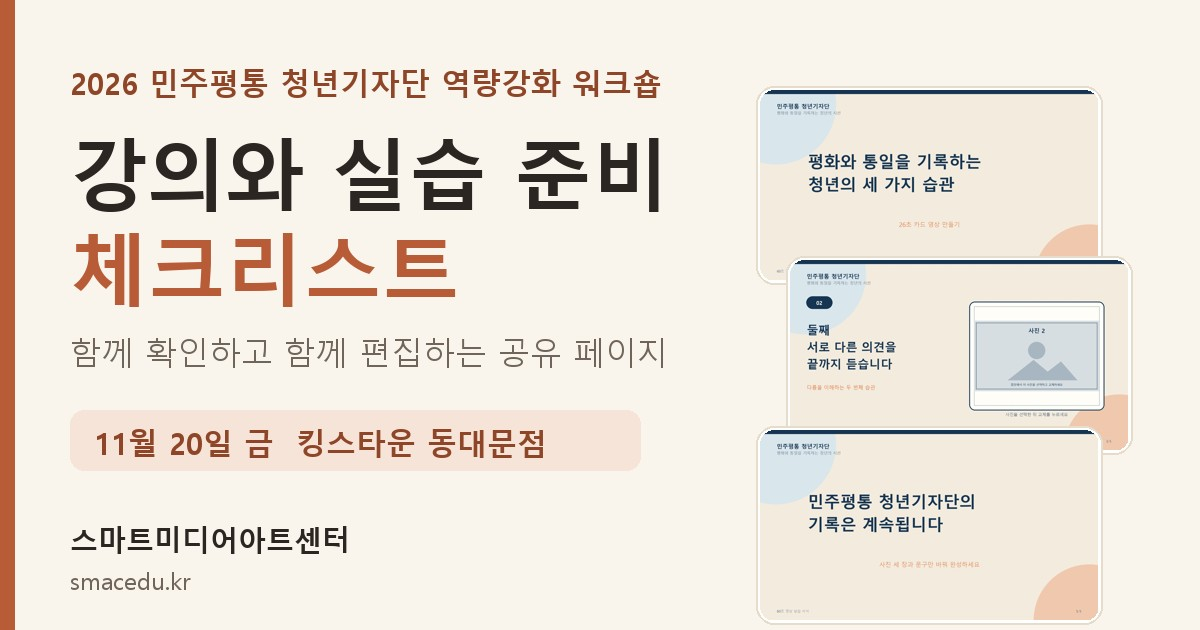
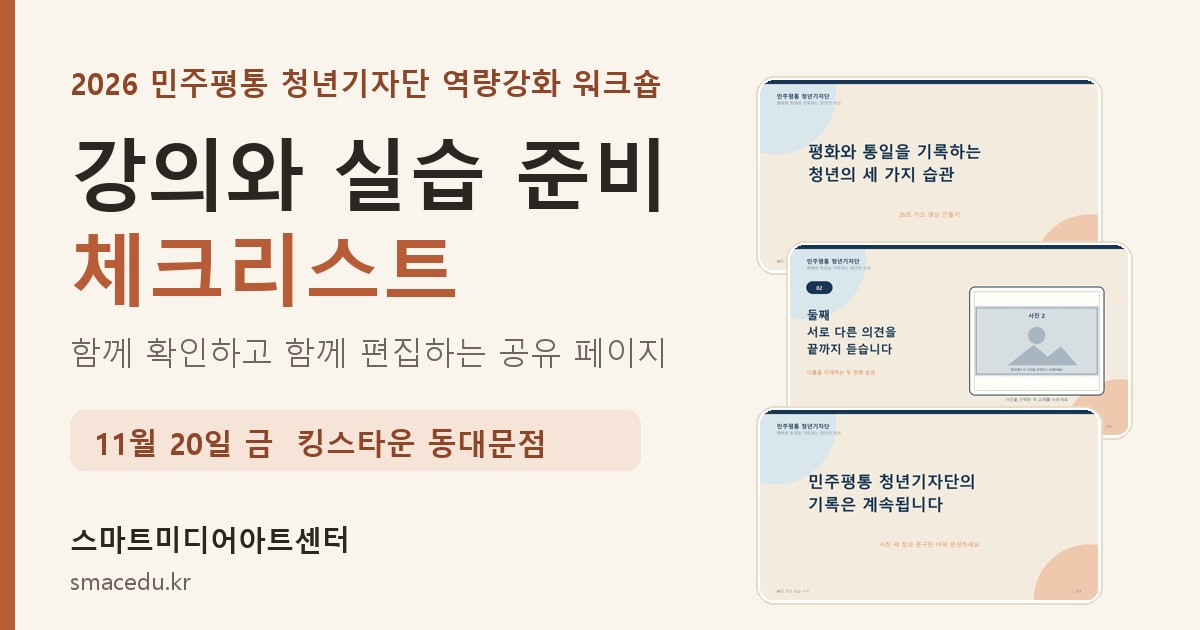
당일 강의 체크리스트 별도 페이지 분리, 썸네일 보정

diff --git a/workshop-day-1120.html b/workshop-day-1120.html
@@ -1,0 +1,162 @@
+<!doctype html>
+<html lang="ko">
+<head>
+<meta charset="utf-8">
+<meta name="viewport" content="width=device-width, initial-scale=1">
+<meta name="robots" content="noindex, nofollow, noarchive">
+<title>민주평통 청년기자단 워크숍 당일 강의 체크리스트</title>
+<meta property="og:type" content="website">
+<meta property="og:title" content="민주평통 청년기자단 워크숍 당일 강의 체크리스트">
+<meta property="og:description" content="함께 확인하고 함께 편집하는 공유 페이지">
+<meta property="og:url" content="https://www.smacedu.kr/workshop-day-1120">
+<meta property="og:image" content="https://www.smacedu.kr/workshop-prep-assets/og_workshop_prep.jpg">
+<meta property="og:image:width" content="1200">
+<meta property="og:image:height" content="630">
+<meta name="twitter:card" content="summary_large_image">
+
+<style>
+:root{--bg:#faf5ec;--card:#fffdf8;--ink:#2b2622;--sub:#6f655b;--line:#e6dccb;--clay:#b85c38;--clay-d:#8f4527;--clay-l:#f6e4d8;--ok:#4f7a4f;--ok-l:#e5f0e2;--hl:#fff1cf}
+*{box-sizing:border-box}
+html{-webkit-text-size-adjust:100%}
+body{margin:0;background:var(--bg);color:var(--ink);font-family:"Pretendard","Noto Sans KR","Malgun Gothic",sans-serif;line-height:1.65;font-size:16px}
+.wrap{max-width:860px;margin:0 auto;padding:0 16px 80px}
+header{padding:36px 0 20px}
+.kicker{color:var(--clay-d);font-weight:700;font-size:14px;letter-spacing:.02em}
+h1{margin:6px 0 8px;font-size:28px;line-height:1.3}
+.lead{color:var(--sub);margin:0}
+.bar{position:sticky;top:0;z-index:5;background:var(--bg);border-bottom:1px solid var(--line);padding:10px 0;margin-bottom:18px}
+.bar-in{display:flex;flex-wrap:wrap;gap:10px;align-items:center;justify-content:flex-end}
+.who{display:flex;gap:8px;align-items:center;font-size:14px}
+.who input{padding:7px 10px;border:1px solid var(--line);border-radius:8px;font:inherit;width:130px;background:#fff}
+.status{font-size:13px;color:var(--sub)}
+.status.err{color:#b3261e;font-weight:700}
+.prog{height:8px;background:var(--line);border-radius:8px;overflow:hidden;margin-top:8px}
+.prog i{display:block;height:100%;width:0;background:var(--clay);transition:width .3s}
+section{margin:30px 0}
+h2{font-size:21px;margin:0 0 4px}
+.hint{color:var(--sub);font-size:14px;margin:0 0 14px}
+.card{background:var(--card);border:1px solid var(--line);border-radius:14px;padding:16px 18px;margin-bottom:12px}
+.facts{display:grid;grid-template-columns:90px 1fr;gap:6px 12px;margin:0}
+.facts dt{color:var(--sub);font-weight:700}
+.facts dd{margin:0}
+table{width:100%;border-collapse:collapse;font-size:14.5px}
+th,td{border-bottom:1px solid var(--line);padding:8px 8px;text-align:left;vertical-align:top}
+th{color:var(--sub);font-size:13px}
+tr.mine td{background:var(--hl)}
+.tag{display:inline-block;background:var(--clay-l);color:var(--clay-d);border-radius:20px;padding:1px 9px;font-size:12px;font-weight:700}
+.group h3{margin:22px 0 8px;font-size:17px;color:var(--clay-d)}
+.item{background:var(--card);border:1px solid var(--line);border-radius:12px;padding:12px 14px;margin-bottom:10px}
+.item.done{background:var(--ok-l);border-color:#c7dcc3}
+.row{display:flex;gap:10px;align-items:flex-start}
+.row input[type=checkbox]{width:22px;height:22px;margin-top:3px;accent-color:var(--clay);flex:none}
+.q{font-weight:700}
+.d{color:var(--sub);font-size:14px;margin-top:2px}
+.d ul{margin:4px 0 0;padding-left:20px}
+.ctl{display:flex;gap:8px;margin-top:8px;flex-wrap:wrap;align-items:flex-start}
+.ctl select{padding:7px 8px;border:1px solid var(--line);border-radius:8px;font:inherit;font-size:14px;background:#fff}
+.ctl textarea{flex:1;min-width:220px;min-height:44px;padding:8px 10px;border:1px solid var(--line);border-radius:8px;font:inherit;font-size:14.5px;resize:vertical;background:#fff}
+.meta{font-size:12px;color:var(--sub);margin-top:4px}
+.del{border:0;background:none;color:#b3261e;cursor:pointer;font-size:13px}
+.add{display:flex;gap:8px;margin-top:8px}
+.add input{flex:1;padding:9px 11px;border:1px solid var(--line);border-radius:8px;font:inherit;background:#fff}
+button.btn{background:var(--clay);color:#fff;border:0;border-radius:8px;padding:9px 16px;font:inherit;font-weight:700;cursor:pointer}
+button.btn:hover{background:var(--clay-d)}
+details{background:var(--card);border:1px solid var(--line);border-radius:12px;padding:12px 14px;margin-bottom:10px}
+details.done{background:var(--ok-l);border-color:#c7dcc3}
+summary{cursor:pointer;font-weight:700;list-style:none;display:flex;gap:8px;align-items:flex-start}
+summary::-webkit-details-marker{display:none}
+summary small{display:block;font-weight:400;color:var(--sub);font-size:14px}
+.idea-body{margin-top:10px;overflow-x:auto}
+.pick{display:flex;gap:8px;align-items:center;margin-top:10px;font-weight:700}
+.pick input{width:20px;height:20px;accent-color:var(--clay)}
+.note{background:var(--clay-l);border-radius:10px;padding:10px 14px;font-size:14.5px;margin-top:10px}
+#notes{width:100%;min-height:160px;padding:12px;border:1px solid var(--line);border-radius:10px;font:inherit;background:#fff;resize:vertical}
+.vids{display:grid;grid-template-columns:repeat(auto-fill,minmax(240px,1fr));gap:12px}
+a.vid{display:flex;flex-direction:column;gap:3px;background:var(--card);border:1px solid var(--line);border-radius:12px;padding:10px;text-decoration:none;color:var(--ink)}
+a.vid img{width:100%;aspect-ratio:16/9;object-fit:cover;border-radius:8px;background:var(--line)}
+a.vid .vt{font-weight:700;margin-top:4px}
+a.vid .vs{font-size:12.5px;color:var(--clay-d)}
+a.vid .vd{font-size:13.5px;color:var(--sub)}
+a.vid:hover{border-color:var(--clay)}
+.nav{display:flex;flex-wrap:wrap;gap:6px 8px;margin:4px 0 14px}
+.nav a{background:var(--card);border:1px solid var(--line);border-radius:20px;padding:5px 12px;font-size:14px;color:var(--ink);text-decoration:none}
+.nav a:hover{border-color:var(--clay);color:var(--clay-d)}
+.nav a.opt{background:var(--clay-l);border-color:#ebcdb9;color:var(--clay-d);font-weight:700}
+section{scroll-margin-top:70px}
+.c5s{display:grid;grid-template-columns:repeat(auto-fill,minmax(180px,1fr));gap:10px;margin-top:10px}
+figure.c5{margin:0;background:var(--card);border:1px solid var(--line);border-radius:10px;padding:6px}
+figure.c5 img{width:100%;border-radius:6px;display:block}
+figure.c5 figcaption{font-size:12.5px;color:var(--sub);padding:4px 2px 0}
+footer{color:var(--sub);font-size:13px;margin-top:40px;border-top:1px solid var(--line);padding-top:14px}
+@media(max-width:560px){h1{font-size:23px}.facts{grid-template-columns:1fr}.who input{width:100px}th:nth-child(1),td:nth-child(1){white-space:nowrap}}
+</style>
+</head>
+<body>
+<div class="wrap">
+<header>
+  <div class="kicker">스마트미디어아트센터</div>
+  <h1>당일 강의 체크리스트</h1>
+  <p class="lead">미팅에서 정하지 않고 행사 당일 강의에서 정하는 항목입니다.</p>
+  <p style="margin:10px 0 0"><a href="/workshop-prep-1120" style="color:var(--clay-d);font-weight:700">준비 체크리스트로 돌아가기</a></p>
+</header>
+<div class="bar"><div class="bar-in"><div class="status" id="status">불러오는 중</div></div></div>
+
+<section>
+  <h2>당일 정할 것</h2>
+  <p class="hint">체크와 메모는 준비 체크리스트 페이지와 같은 저장소에 저장됩니다. 영상 과제 아이디어 4안은 <a href="/workshop-prep-1120#ideas-sec" style="color:var(--clay-d);font-weight:700">준비 체크리스트 페이지</a>에 있습니다.</p>
+  <div id="items"></div>
+</section>
+
+<footer>이 페이지는 주소를 아는 사람만 열 수 있고 검색에 노출되지 않습니다.</footer>
+</div>
+<script>
+(function(){
+var ITEMS=[
+ {id:'b5',q:'조별 과제 주제 범위',d:'당일 강의에서 정합니다. 수정안은 지역 평화통일 활동, 현장 행사, K컬처와 평화통일 공공외교 등에서 팀별 선택이고, 결과물은 60~90초 기준, 화면 방향과 비율은 팀별입니다. 영상 과제 아이디어를 활용할지 현장에서 정하기'}
+];
+var API='/api/workshop-prep';
+var state={items:{},rev:0};var timers={};var busy=0;
+function $(s){return document.querySelector(s)}
+function esc(s){return String(s==null?'':s).replace(/[&<>"]/g,function(c){return{'&':'&amp;','<':'&lt;','>':'&gt;','"':'&quot;'}[c]})}
+function fmt(iso){if(!iso)return '';var d=new Date(iso);return (d.getMonth()+1)+'/'+d.getDate()+' '+('0'+d.getHours()).slice(-2)+':'+('0'+d.getMinutes()).slice(-2)}
+function setStatus(t,err){var s=$('#status');s.textContent=t;s.className='status'+(err?' err':'')}
+function it(id){return state.items[id]||{}}
+function itemHTML(x){
+  var s=it(x.id);
+  return '<div class="item'+(s.done?' done':'')+'" data-id="'+x.id+'"><div class="row"><input type="checkbox" '+(s.done?'checked':'')+' aria-label="완료"><div style="flex:1"><div class="q">'+esc(x.q)+'</div><div class="d">'+x.d+'</div></div></div>'+
+   '<div class="ctl"><select data-f="owner" aria-label="담당"><option value="">담당 미정</option><option'+(s.owner==='센터'?' selected':'')+'>센터</option><option'+(s.owner==='기관'?' selected':'')+'>기관</option><option'+(s.owner==='공동'?' selected':'')+'>공동</option></select>'+
+   '<textarea data-f="memo" placeholder="메모" aria-label="메모">'+esc(s.memo||'')+'</textarea></div>'+
+   (s.at?'<div class="meta">'+fmt(s.at)+' 수정</div>':'')+'</div>';
+}
+function render(){
+  var ae=document.activeElement;
+  if(ae&&(ae.tagName==='TEXTAREA'||ae.tagName==='SELECT'))return;
+  $('#items').innerHTML=ITEMS.map(itemHTML).join('');
+}
+function send(op){
+  op.by='';busy++;setStatus('저장 중');
+  return fetch(API,{method:'POST',headers:{'Content-Type':'application/json'},body:JSON.stringify(op)}).then(function(r){return r.json().then(function(j){if(!r.ok)throw new Error(j.error||r.status);return j})}).then(function(j){
+    busy--;state=j;setStatus('저장됨 '+fmt(j.updatedAt));return j;
+  }).catch(function(e){busy--;setStatus('저장 연결 실패, 잠시 후 다시 시도해 주세요',true);throw e});
+}
+function setLocal(id,f){var c=state.items[id]||{};for(var k in f)c[k]=f[k];c.at=new Date().toISOString();state.items[id]=c}
+document.addEventListener('change',function(e){
+  var t=e.target,box=t.closest('[data-id]');if(!box)return;var id=box.getAttribute('data-id');
+  if(t.type==='checkbox'){setLocal(id,{done:t.checked});render();send({op:'set',id:id,fields:{done:t.checked}}).then(render,function(){})}
+  else if(t.getAttribute('data-f')==='owner'){setLocal(id,{owner:t.value});send({op:'set',id:id,fields:{owner:t.value}}).then(function(){render()},function(){})}
+});
+document.addEventListener('input',function(e){
+  var t=e.target;
+  if(t.getAttribute&&t.getAttribute('data-f')==='memo'){var box=t.closest('[data-id]'),id=box.getAttribute('data-id');state.items[id]=Object.assign({},state.items[id],{memo:t.value});clearTimeout(timers[id]);timers[id]=setTimeout(function(){send({op:'set',id:id,fields:{memo:t.value}}).then(function(){if(document.activeElement.tagName!=='TEXTAREA')render()},function(){})},900)}
+});
+function pull(){
+  if(busy)return;
+  var ae=document.activeElement;if(ae&&(ae.tagName==='TEXTAREA'||ae.tagName==='SELECT'))return;
+  fetch(API,{cache:'no-store'}).then(function(r){return r.json()}).then(function(j){if(j&&typeof j.rev==='number'&&j.rev!==state.rev){state=j;render()}setStatus('연결됨')}).catch(function(){setStatus('저장 연결 실패, 잠시 후 다시 시도해 주세요',true)});
+}
+render();pull();setInterval(pull,12000);
+document.addEventListener('visibilitychange',function(){if(!document.hidden)pull()});
+})();
+</script>
+</body>
+</html>

diff --git a/workshop-prep-1120.html b/workshop-prep-1120.html
@@ -99,7 +99,7 @@ footer{color:var(--sub);font-size:13px;margin-top:40px;border-top:1px solid var(
   <p class="lead">담당자와 강사가 같이 보고 같이 고치는 페이지입니다. 체크, 담당, 메모를 바꾸면 바로 저장되고 상대 화면에도 반영됩니다.</p>
 </header>
 
-<nav class="nav"><a href="#overview">행사 개요</a><a href="#checklist">체크리스트</a><a href="#share">공유 페이지 예시</a><a href="#videos">샘플 영상</a><a href="#capcut">캡컷 시안</a><a href="#ideas-sec">과제 아이디어</a><a href="#memo">공용 메모</a><a class="opt" href="/workshop-prep-1120-pre">사전 촬영 안내 (선택, 별도 페이지)</a></nav>
+<nav class="nav"><a href="#overview">행사 개요</a><a href="#checklist">체크리스트</a><a href="#share">공유 페이지 예시</a><a href="#videos">샘플 영상</a><a href="#capcut">캡컷 시안</a><a href="#ideas-sec">과제 아이디어</a><a href="#memo">공용 메모</a><a class="opt" href="/workshop-day-1120">당일 강의 체크리스트 (별도 페이지)</a><a class="opt" href="/workshop-prep-1120-pre">사전 촬영 안내 (선택, 별도 페이지)</a></nav>
 <div class="bar"><div class="bar-in">
     <div class="status" id="status">불러오는 중</div>
 </div>
@@ -210,9 +210,6 @@ var GROUPS=[
   {id:'d6',q:'계약서 작성 여부',d:'계약서를 작성하는지, 작성한다면 방식과 시점 확인'},
   {id:'d3',q:'결과 영상 대외 게시 방식',d:'대외 게시는 사무처 검수 후 결정. 기관 SNS 게시 여부와 영상 전달 방법'},
   {id:'d4',q:'현장 사전 점검 가능 시간',d:'행사 전 장비와 네트워크 점검 및 리허설 시간'}
- ]},
- {k:'E',t:'당일 강의 체크리스트 (미팅에서 정하지 않음)',items:[
-  {id:'b5',q:'조별 과제 주제 범위',d:'당일 강의에서 정합니다. 수정안은 지역 평화통일 활동, 현장 행사, K컬처와 평화통일 공공외교 등에서 팀별 선택이고, 결과물은 60~90초 기준, 화면 방향과 비율은 팀별입니다. 아래 영상 과제 아이디어를 활용할지 현장에서 정하기'}
  ]}
 ];
 var IDEAS=[
@@ -258,7 +255,7 @@ function render(){
     h+='</div>';
   });
   var ex=state.extra.filter(function(x){return !GROUPS.some(function(g){return g.k===x.group})});
-  h+='<div class="group"><h3>F. 추가 항목</h3>';
+  h+='<div class="group"><h3>E. 추가 항목</h3>';
   ex.forEach(function(x){h+=itemHTML(x.id,x.text,'',true)});
   h+='<div class="add"><input id="addText" maxlength="200" placeholder="확인할 내용을 추가하세요"><button class="btn" id="addBtn">추가</button></div></div>';
   $('#groups').innerHTML=h;
@@ -302,7 +299,7 @@ document.addEventListener('input',function(e){
 });
 document.addEventListener('click',function(e){
   var t=e.target;
-  if(t.id==='addBtn'){var v=$('#addText').value.trim();if(!v)return;send({op:'addItem',group:'F',text:v}).then(render,function(){})}
+  if(t.id==='addBtn'){var v=$('#addText').value.trim();if(!v)return;send({op:'addItem',group:'E',text:v}).then(render,function(){})}
   else if(t.getAttribute&&t.getAttribute('data-del')){if(confirm('이 항목을 삭제할까요?'))send({op:'delItem',id:t.getAttribute('data-del')}).then(render,function(){})}
 });
 function pull(){
